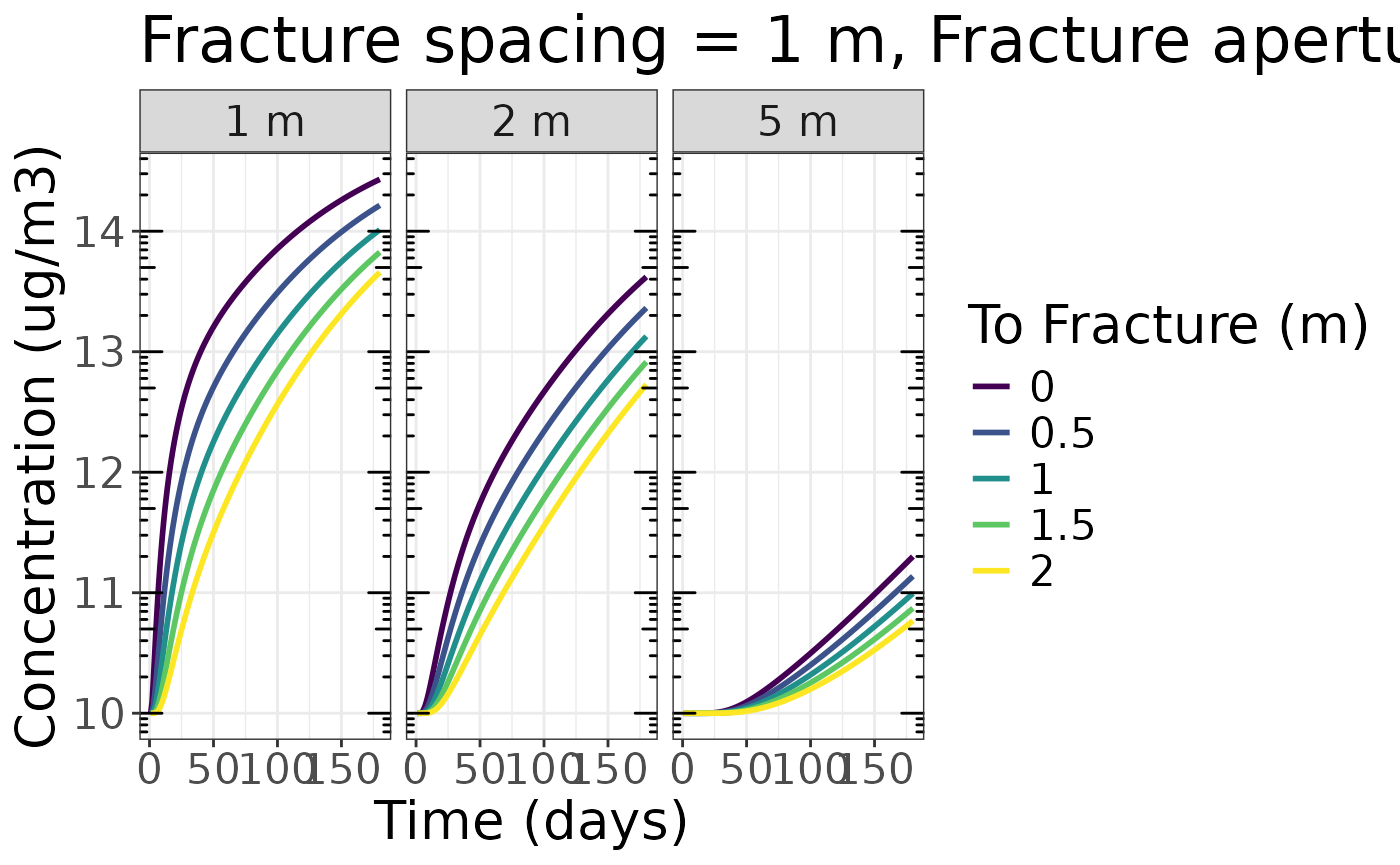
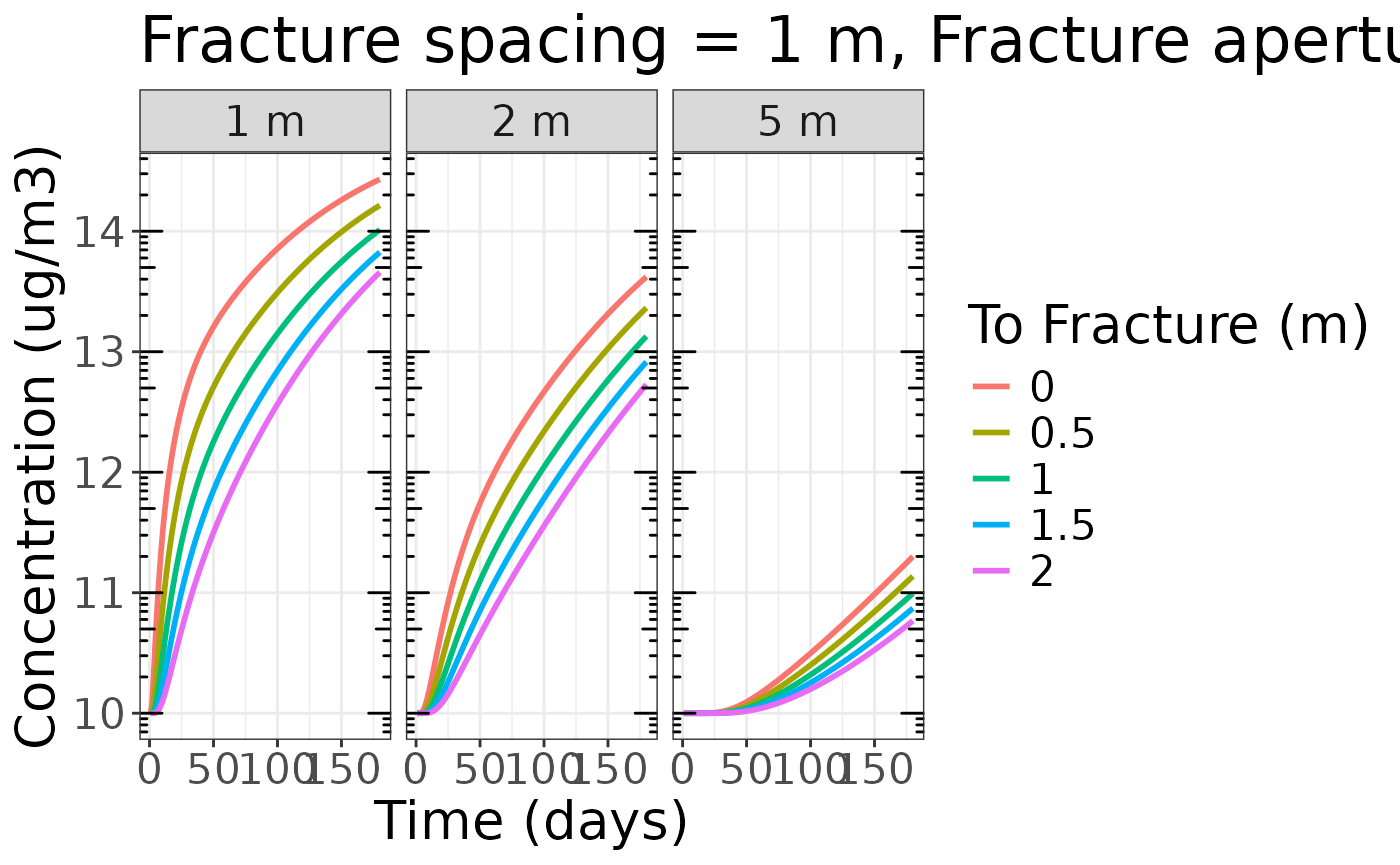
remove viridis

diff --git a/docs/articles/transport.html b/docs/articles/transport.html
@@ -72,8 +72,6 @@
 <code class="sourceCode R"><span><span class="kw"><a href="https://rdrr.io/r/base/library.html" class="external-link">library</a></span><span class="op">(</span><span class="va"><a href="https://jkennel.github.io/hydrorecipes/">hydrorecipes</a></span><span class="op">)</span></span>
 <span><span class="co">#&gt; Loading required package: Bessel</span></span>
 <span><span class="kw"><a href="https://rdrr.io/r/base/library.html" class="external-link">library</a></span><span class="op">(</span><span class="va"><a href="https://ggplot2.tidyverse.org" class="external-link">ggplot2</a></span><span class="op">)</span></span>
-<span><span class="kw"><a href="https://rdrr.io/r/base/library.html" class="external-link">library</a></span><span class="op">(</span><span class="va"><a href="https://sjmgarnier.github.io/viridis/" class="external-link">viridis</a></span><span class="op">)</span></span>
-<span><span class="co">#&gt; Loading required package: viridisLite</span></span>
 <span><span class="kw"><a href="https://rdrr.io/r/base/library.html" class="external-link">library</a></span><span class="op">(</span><span class="va"><a href="https://r-datatable.com" class="external-link">data.table</a></span><span class="op">)</span></span></code></pre></div>
 <p>!!!!!!!!!!!UNDER DEVELOPMENT!!!!!!!!!!!!!!!</p>
 <div class="section level4">
@@ -106,13 +104,10 @@
 <span>                                  tortuosity <span class="op">=</span> <span class="fl">0.1</span>,</span>
 <span>                                  n_terms <span class="op">=</span> <span class="fl">30L</span><span class="op">)</span> <span class="op">|&gt;</span></span>
 <span>  <span class="fu"><a href="../reference/plate.html">plate</a></span><span class="op">(</span><span class="st">"dt"</span><span class="op">)</span></span>
-<span><span class="co">#&gt; The value is D 0.000400016</span></span>
-<span><span class="co">#&gt; The value is D_prime 1.6e-09</span></span>
 <span></span>
 <span><span class="va">cra_sol</span><span class="op">[</span>, <span class="va">z</span> <span class="op">:=</span> <span class="fu"><a href="https://rdrr.io/r/base/factor.html" class="external-link">factor</a></span><span class="op">(</span><span class="fu"><a href="https://rdrr.io/r/base/paste.html" class="external-link">paste</a></span><span class="op">(</span><span class="va">z</span>, <span class="st">"m"</span><span class="op">)</span>, levels <span class="op">=</span> <span class="fu"><a href="https://rdrr.io/r/base/c.html" class="external-link">c</a></span><span class="op">(</span><span class="st">"1 m"</span>, <span class="st">"50 m"</span>, <span class="st">"100 m"</span><span class="op">)</span><span class="op">)</span><span class="op">]</span></span>
 <span><span class="fu"><a href="https://ggplot2.tidyverse.org/reference/ggplot.html" class="external-link">ggplot</a></span><span class="op">(</span><span class="va">cra_sol</span>, <span class="fu"><a href="https://ggplot2.tidyverse.org/reference/aes.html" class="external-link">aes</a></span><span class="op">(</span>x <span class="op">=</span> <span class="va">t</span><span class="op">/</span><span class="fl">86400</span>, y <span class="op">=</span> <span class="va">transport_fractures_solute</span>, color <span class="op">=</span> <span class="fu"><a href="https://rdrr.io/r/base/factor.html" class="external-link">as.factor</a></span><span class="op">(</span><span class="va">x</span><span class="op">)</span>, group <span class="op">=</span> <span class="fu"><a href="https://rdrr.io/r/base/factor.html" class="external-link">as.factor</a></span><span class="op">(</span><span class="va">x</span><span class="op">)</span><span class="op">)</span><span class="op">)</span> <span class="op">+</span></span>
 <span>  <span class="fu"><a href="https://ggplot2.tidyverse.org/reference/geom_path.html" class="external-link">geom_line</a></span><span class="op">(</span>linewidth <span class="op">=</span> <span class="fl">1</span><span class="op">)</span> <span class="op">+</span></span>
-<span>  <span class="fu"><a href="https://ggplot2.tidyverse.org/reference/scale_viridis.html" class="external-link">scale_color_viridis_d</a></span><span class="op">(</span><span class="op">)</span> <span class="op">+</span></span>
 <span>  <span class="fu"><a href="https://ggplot2.tidyverse.org/reference/guides.html" class="external-link">guides</a></span><span class="op">(</span>color<span class="op">=</span><span class="fu"><a href="https://ggplot2.tidyverse.org/reference/guide_legend.html" class="external-link">guide_legend</a></span><span class="op">(</span>title<span class="op">=</span><span class="st">"To Fracture (m)"</span><span class="op">)</span><span class="op">)</span> <span class="op">+</span></span>
 <span>  <span class="fu"><a href="https://ggplot2.tidyverse.org/reference/scale_continuous.html" class="external-link">scale_y_log10</a></span><span class="op">(</span>limits <span class="op">=</span> <span class="fu"><a href="https://rdrr.io/r/base/c.html" class="external-link">c</a></span><span class="op">(</span><span class="fl">1e3</span>, <span class="fl">2e7</span><span class="op">)</span>,</span>
 <span>                expand <span class="op">=</span> <span class="fu"><a href="https://rdrr.io/r/base/c.html" class="external-link">c</a></span><span class="op">(</span><span class="fl">0</span>,<span class="fl">0</span><span class="op">)</span>,</span>
@@ -307,8 +302,6 @@
 <span><span class="co">#&gt; [2647] 2.0 2.0 2.0 2.0 2.0 2.0 2.0 2.0 2.0 2.0 2.0 2.0 2.0 2.0 2.0 2.0 2.0 2.0</span></span>
 <span><span class="co">#&gt; [2665] 2.0 2.0 2.0 2.0 2.0 2.0 2.0 2.0 2.0 2.0 2.0 2.0 2.0 2.0 2.0 2.0 2.0 2.0</span></span>
 <span><span class="co">#&gt; [2683] 2.0 2.0 2.0 2.0 2.0 2.0 2.0 2.0 2.0 2.0 2.0 2.0 2.0 2.0 2.0 2.0 2.0 2.0</span></span>
-<span><span class="co">#&gt; The value is D 1.46708e-07</span></span>
-<span><span class="co">#&gt; The value is D_prime 1.38088e-06</span></span>
 <span></span>
 <span><span class="va">cra_heat</span><span class="op">[</span>, <span class="va">z</span> <span class="op">:=</span> <span class="fu"><a href="https://rdrr.io/r/base/factor.html" class="external-link">factor</a></span><span class="op">(</span><span class="fu"><a href="https://rdrr.io/r/base/paste.html" class="external-link">paste</a></span><span class="op">(</span><span class="va">z</span>, <span class="st">"m"</span><span class="op">)</span>, levels <span class="op">=</span> <span class="fu"><a href="https://rdrr.io/r/base/c.html" class="external-link">c</a></span><span class="op">(</span><span class="st">"1 m"</span>, <span class="st">"2 m"</span>, <span class="st">"5 m"</span><span class="op">)</span><span class="op">)</span><span class="op">]</span></span>
 <span><span class="fu"><a href="https://ggplot2.tidyverse.org/reference/ggplot.html" class="external-link">ggplot</a></span><span class="op">(</span><span class="va">cra_heat</span>, <span class="fu"><a href="https://ggplot2.tidyverse.org/reference/aes.html" class="external-link">aes</a></span><span class="op">(</span>x <span class="op">=</span> <span class="va">t</span> <span class="op">/</span> <span class="fl">86400</span>,</span>
@@ -316,7 +309,6 @@
 <span>                     color <span class="op">=</span> <span class="fu"><a href="https://rdrr.io/r/base/factor.html" class="external-link">as.factor</a></span><span class="op">(</span><span class="va">x</span><span class="op">)</span>,</span>
 <span>                     group <span class="op">=</span> <span class="fu"><a href="https://rdrr.io/r/base/factor.html" class="external-link">as.factor</a></span><span class="op">(</span><span class="va">x</span><span class="op">)</span><span class="op">)</span><span class="op">)</span> <span class="op">+</span></span>
 <span>  <span class="fu"><a href="https://ggplot2.tidyverse.org/reference/geom_path.html" class="external-link">geom_line</a></span><span class="op">(</span>linewidth <span class="op">=</span> <span class="fl">1</span><span class="op">)</span> <span class="op">+</span></span>
-<span>  <span class="fu"><a href="https://ggplot2.tidyverse.org/reference/scale_viridis.html" class="external-link">scale_color_viridis_d</a></span><span class="op">(</span><span class="op">)</span> <span class="op">+</span></span>
 <span>  <span class="fu"><a href="https://ggplot2.tidyverse.org/reference/guides.html" class="external-link">guides</a></span><span class="op">(</span>color<span class="op">=</span><span class="fu"><a href="https://ggplot2.tidyverse.org/reference/guide_legend.html" class="external-link">guide_legend</a></span><span class="op">(</span>title<span class="op">=</span><span class="st">"To Fracture (m)"</span><span class="op">)</span><span class="op">)</span> <span class="op">+</span></span>
 <span>  <span class="fu"><a href="https://ggplot2.tidyverse.org/reference/facet_wrap.html" class="external-link">facet_wrap</a></span><span class="op">(</span><span class="va">z</span><span class="op">~</span><span class="va">.</span>, ncol <span class="op">=</span> <span class="fl">4</span><span class="op">)</span> <span class="op">+</span></span>
 <span>  <span class="fu"><a href="https://ggplot2.tidyverse.org/reference/labs.html" class="external-link">ylab</a></span><span class="op">(</span><span class="st">"Concentration (ug/m3)"</span><span class="op">)</span> <span class="op">+</span></span>
@@ -352,7 +344,7 @@
 <span></span>
 <span><span class="fu"><a href="https://ggplot2.tidyverse.org/reference/ggplot.html" class="external-link">ggplot</a></span><span class="op">(</span><span class="va">ob</span>, <span class="fu"><a href="https://ggplot2.tidyverse.org/reference/aes.html" class="external-link">aes</a></span><span class="op">(</span>x <span class="op">=</span> <span class="va">distance</span>, y <span class="op">=</span> <span class="va">time</span><span class="op">)</span><span class="op">)</span> <span class="op">+</span></span>
 <span>  <span class="fu"><a href="https://ggplot2.tidyverse.org/reference/geom_tile.html" class="external-link">geom_raster</a></span><span class="op">(</span><span class="fu"><a href="https://ggplot2.tidyverse.org/reference/aes.html" class="external-link">aes</a></span><span class="op">(</span>fill <span class="op">=</span> <span class="va">transport_ogata_banks</span><span class="op">)</span><span class="op">)</span> <span class="op">+</span> </span>
-<span>  <span class="fu"><a href="https://sjmgarnier.github.io/viridis/reference/scale_viridis.html" class="external-link">scale_fill_viridis</a></span><span class="op">(</span><span class="st">"Concentration"</span><span class="op">)</span> <span class="op">+</span> </span>
+<span>  <span class="fu"><a href="https://ggplot2.tidyverse.org/reference/scale_gradient.html" class="external-link">scale_fill_gradient</a></span><span class="op">(</span><span class="st">"Concentration"</span><span class="op">)</span> <span class="op">+</span></span>
 <span>  <span class="fu"><a href="https://ggplot2.tidyverse.org/reference/scale_continuous.html" class="external-link">scale_x_continuous</a></span><span class="op">(</span>expand <span class="op">=</span> <span class="fu"><a href="https://rdrr.io/r/base/c.html" class="external-link">c</a></span><span class="op">(</span><span class="fl">0</span>, <span class="fl">0</span><span class="op">)</span><span class="op">)</span> <span class="op">+</span></span>
 <span>  <span class="fu"><a href="https://ggplot2.tidyverse.org/reference/scale_continuous.html" class="external-link">scale_y_continuous</a></span><span class="op">(</span>expand <span class="op">=</span> <span class="fu"><a href="https://rdrr.io/r/base/c.html" class="external-link">c</a></span><span class="op">(</span><span class="fl">0</span>, <span class="fl">0</span><span class="op">)</span><span class="op">)</span> <span class="op">+</span></span>
 <span>  <span class="fu"><a href="https://ggplot2.tidyverse.org/reference/ggtheme.html" class="external-link">theme_bw</a></span><span class="op">(</span><span class="op">)</span></span></code></pre></div>
